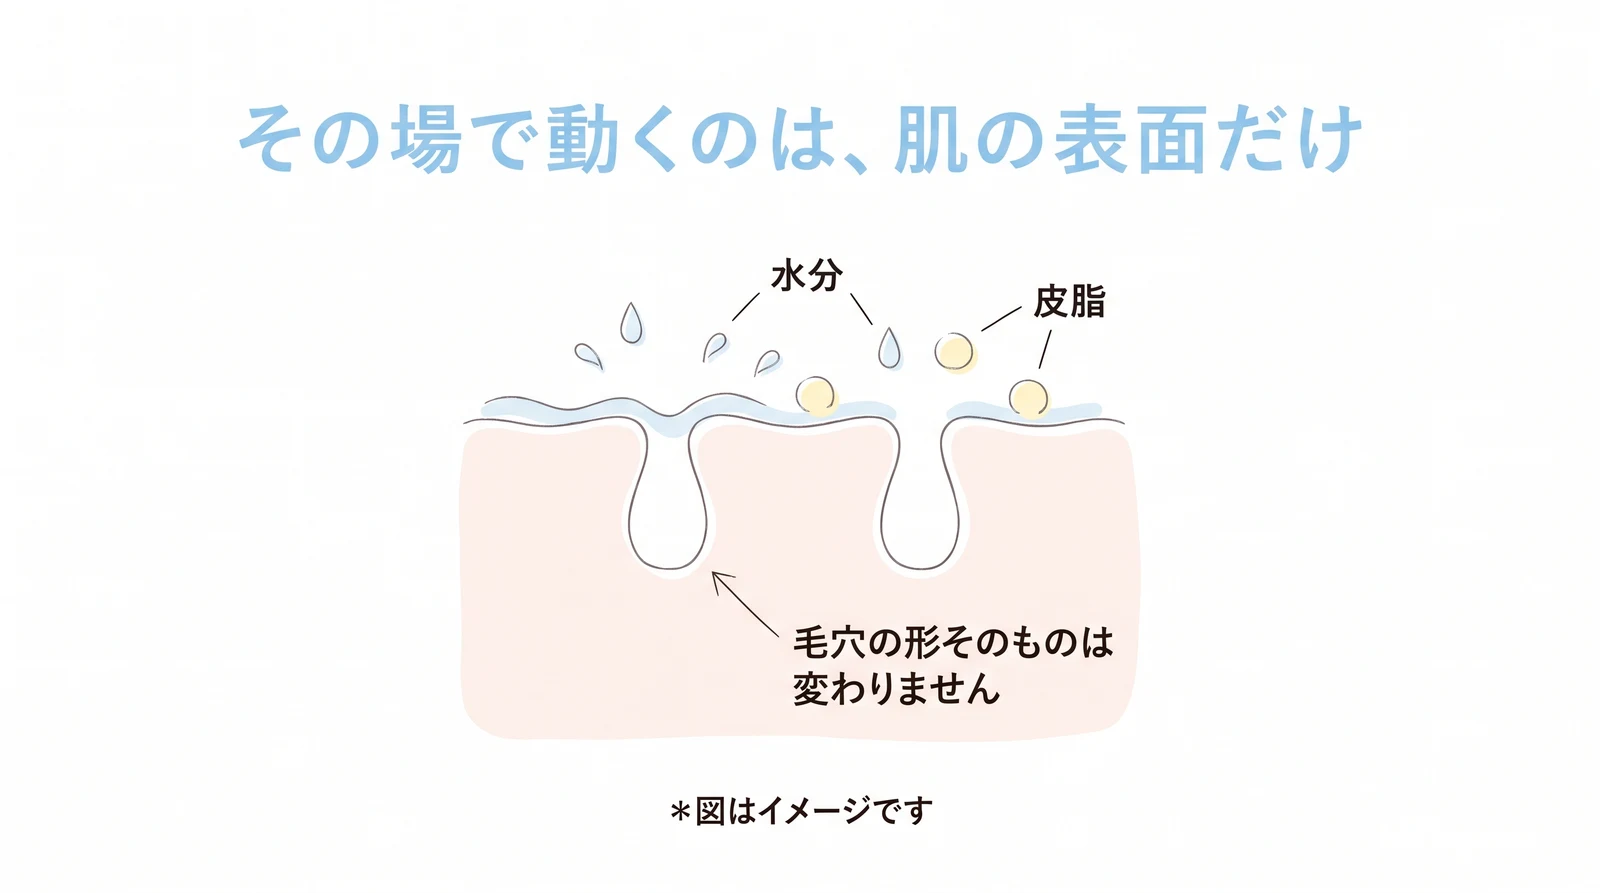
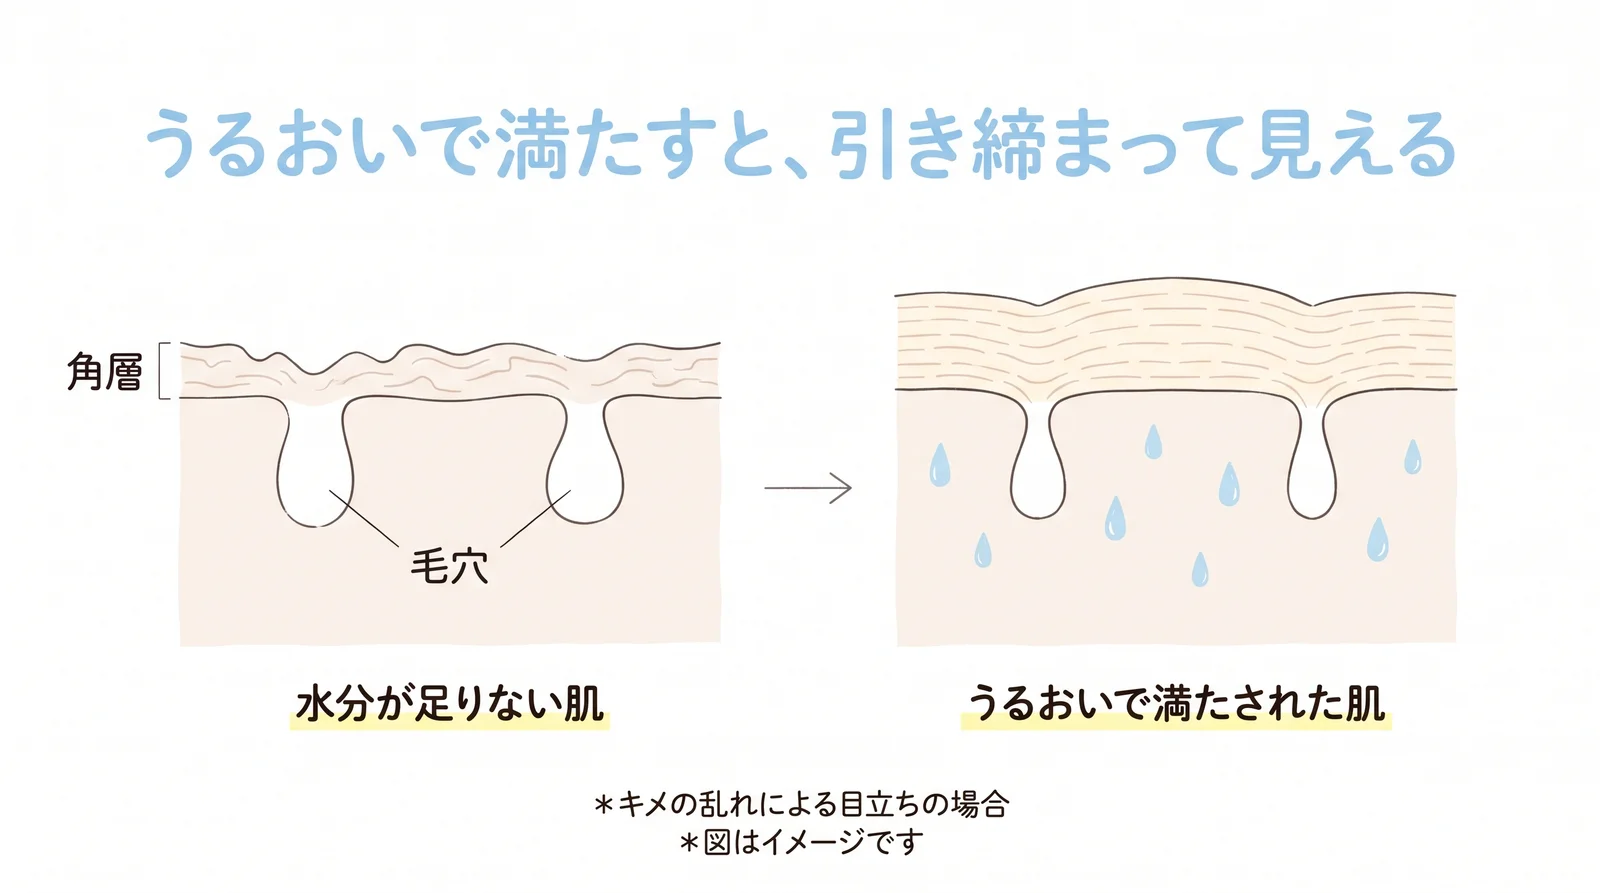
publish: orbis-u-pore-tightening-v2

diff --git a/2026/08/orbis-u-pore-tightening-v2.html b/2026/08/orbis-u-pore-tightening-v2.html
@@ -58,7 +58,7 @@
 <p style="margin:14px 0; line-height:1.7;">毛穴を引き締めたいと思って手を尽くしても、しばらくすると元に近づいて見える。そんな経験はありませんか。毛穴引き締めでできるのは、うるおいと皮脂の量を整えて毛穴を目立ちにくく見せるところまでとされています。化粧品に認められた効能の一覧にも、毛穴を対象にした項目は設けられていません。手ごたえがどれくらい続くのかを先に知っておくと、その場のケアと毎日のお手入れを取り違えずに済みますよ。</p>
 <p style="margin:14px 0; line-height:1.7;"><img src="https://shun-toda.github.io/html-publish/2026/08/orbis-u-pore-tightening-v2/kv_orbisu_%E6%AF%9B%E7%A9%B4%E7%9B%AE%E7%AB%8B%E3%81%A1%E3%82%82%E8%82%8C%E8%8D%92%E3%82%8C%E3%82%82.webp" alt="オルビスユーの洗顔料・化粧水・保湿液3品と「毛穴目立ち＊1も肌荒れ＊2も。みずみずしく跳ね返す透明感＊3」のコピーが入ったオルビス公式キービジュアル" loading="lazy" style="max-width:100%; height:auto; display:block; margin:16px auto; border-radius:6px;" /></p>
 <h2 style="font-size:24px; font-weight:600; margin:32px 0 16px; padding-bottom:8px; border-bottom:1px solid #eaeef2; line-height:1.3;">毛穴引き締めで実際にできることは何か</h2>
-<p style="margin:14px 0; line-height:1.7;"><img src="https://shun-toda.github.io/html-publish/2026/08/orbis-u-pore-tightening-v2/h2_01_%E3%81%A7%E3%81%8D%E3%82%8B%E3%81%93%E3%81%A8_%E5%8A%B9%E8%83%BD%E7%AF%84%E5%9B%B2.webp" alt="「毛穴引き締め」という言葉に対して、化粧品ができるのは肌をひきしめる・肌のキメを整える・うるおいを与えるという3つの働きであることを示したイラスト図解" loading="lazy" style="max-width:100%; height:auto; display:block; margin:16px auto; border-radius:6px;" /><br><em>化粧品の毛穴ケアの実体は「肌をひきしめる・肌のキメを整える・うるおいを与える」の3つの働き＊——毛穴そのものを治す・小さくするという効能は設けられていません（＊キメの乱れによる目立ちの場合。出典: 厚生労働省「化粧品の効能の範囲」を基に当社作成／2026年8月時点）＊図はイメージです</em></p>
+<p style="margin:14px 0; line-height:1.7;"><img src="https://shun-toda.github.io/html-publish/2026/08/orbis-u-pore-tightening-v2/h2_01_%E3%81%A7%E3%81%8D%E3%82%8B%E3%81%93%E3%81%A8_%E5%8A%B9%E8%83%BD%E7%AF%84%E5%9B%B2.webp" alt="「毛穴引き締め」という言葉に対して、化粧品ができるのは肌をひきしめる・肌のキメを整える・うるおいを与えるという3つの働きであることを示したイラスト図解" loading="lazy" style="max-width:100%; height:auto; display:block; margin:16px auto; border-radius:6px;" /><br><em>化粧品の毛穴ケアの実体は「肌をひきしめる・肌のキメを整える・うるおいを与える」の3つの働き＊——毛穴そのものを治す・小さくするという効能は設けられていません（＊キメの乱れによる目立ちの場合。出典: 厚生労働省「化粧品の効能の範囲」を基に当社作成／2026年8月時点）</em></p>
 <p style="margin:14px 0; line-height:1.7;">化粧品に認められた効能は「肌をひきしめる」までで、毛穴を対象にした効能はありません。<a href="https://www.mhlw.go.jp/web/t_doc?dataId=00tb7518&dataType=1&pageNo=" style="color:#0969da; text-decoration:none; border-bottom:1px solid #eaeef2;">厚生労働省が定める化粧品の効能の範囲</a>（平成23年7月21日通知）は56項目ありますが、そのすべてを通しても毛穴という語は出てきません（2026年8月時点）。引き締めという言葉が指しているのは、毛穴そのものではなく肌の状態だといえます。</p>
 <h3 style="font-size:20px; font-weight:600; margin:24px 0 12px; line-height:1.3;">化粧品が言える「ひきしめる」の範囲</h3>
 <p style="margin:14px 0; line-height:1.7;">56項目の効能一覧には、(23)として「肌をひきしめる。」が並んでいます。ここで対象になっているのは<strong>肌</strong>であり、毛穴という語は一覧のどこにも出てきません。あわせて (19)「肌を整える。」(20)「肌のキメを整える。」(24)「皮膚にうるおいを与える。」(30)「肌にはりを与える。」が並び、毛穴の見え方に関わる訴求は、これらの組み合わせとして表現されています。</p>
@@ -103,8 +103,8 @@
 <p style="margin:14px 0; line-height:1.7;">そのためオルビスは、自社の製品についても「毛穴を引き締める」とは書きません。毛穴について言えるのは、<span style="background:linear-gradient(transparent 60%,#FFFF00 60%)"><strong>キメの乱れによる毛穴の目立ちを、うるおいで目立ちにくく見せるところまで</strong></span>だと考えています。毛穴のタイプごとの原因整理は<a href="/magazine/pore-open/" style="color:#0969da; text-decoration:none; border-bottom:1px solid #eaeef2;">毛穴の開きの原因を3タイプに分けて整理した記事</a>にまとめていますので、あわせてご覧いただけたらうれしいです。市販品どうしの価格や成分の比較は、この記事では扱っていません。</p>
 <p style="margin:14px 0; line-height:1.7;">「引き締め」は毛穴を対象にした効能ではなく、肌をひきしめる・うるおいを与えるという効能をまとめた通称です。製品を選ぶときは、引き締めという文字そのものよりも、何に作用するものなのかに目を向けてみると選びやすくなるかもしれません。</p>
 <h2 style="font-size:24px; font-weight:600; margin:32px 0 16px; padding-bottom:8px; border-bottom:1px solid #eaeef2; line-height:1.3;">その場で変えられることと、変えられないこと</h2>
-<p style="margin:14px 0; line-height:1.7;"><img src="https://shun-toda.github.io/html-publish/2026/08/orbis-u-pore-tightening-v2/h2_02_%E3%81%9D%E3%81%AE%E5%A0%B4%E3%81%A7%E5%A4%89%E3%81%88%E3%82%89%E3%82%8C%E3%82%8B%E3%81%93%E3%81%A8.webp" alt="肌の断面イラストで、その場で動くのは表面の水分と皮脂だけであり、毛穴の形そのものは変わらないことを示した図解" loading="lazy" style="max-width:100%; height:auto; display:block; margin:16px auto; border-radius:6px;" /><br><em>その場で動かせるのは肌の表面にある水分と皮脂で、毛穴の形そのものが変わるわけではありません——取ることと補うことはセットで考えるのがおすすめです（当社の製品設計と使用方法の考え方に基づく整理／2026年8月時点）＊図はイメージです</em></p>
-<p style="margin:14px 0; line-height:1.7;">毛穴引き締めとして紹介される方法がその場で変えられるのは、肌の表面にある水分と皮脂の状態までだといわれています。皮脂が多いと毛穴のふちに影ができて目立ち、水分が足りないとキメが乱れて同じように目立って見えやすくなります。逆にいえば、<strong>その場でできることは、おおむねこの2つを整えるところに絞られる</strong>といえそうです。</p>
+<p style="margin:14px 0; line-height:1.7;"><img src="https://shun-toda.github.io/html-publish/2026/08/orbis-u-pore-tightening-v2/h2_02_%E3%81%9D%E3%81%AE%E5%A0%B4%E3%81%A7%E5%A4%89%E3%81%88%E3%82%89%E3%82%8C%E3%82%8B%E3%81%93%E3%81%A8.webp" alt="肌の断面のBefore/Afterイラストで、角層がうるおいで満たされるとキメがふっくら整い、同じ毛穴でも引き締まって見えることを示した図解" loading="lazy" style="max-width:100%; height:auto; display:block; margin:16px auto; border-radius:6px;" /><br><em>角層がうるおいで満たされるとキメがふっくら整い、同じ毛穴でも引き締まって見えます＊（＊キメの乱れによる目立ちの場合。当社の製品設計と使用方法の考え方に基づく整理／2026年8月時点）＊図はイメージです</em></p>
+<p style="margin:14px 0; line-height:1.7;">毛穴引き締めとして紹介される方法がその場で変えられるのは、肌の表面にある水分と皮脂の状態です。ただ、この2つを整えるだけでも、見え方は確かに変わります。皮脂が多いと毛穴のふちに影ができて目立ち、水分が足りないとキメが乱れて同じように目立ちやすくなる一方で、<strong>角層がうるおいで満たされるとキメがふっくら整い、同じ毛穴でも引き締まって見える</strong>＊ためです（＊キメの乱れによる目立ちの場合）。変わっているのは毛穴の形そのものではなく肌の状態ですが、見え方を整えるうえでは十分に意味のある変化だといえます。</p>
 <h3 style="font-size:20px; font-weight:600; margin:24px 0 12px; line-height:1.3;">冷やす・皮脂を取るときに起きていること</h3>
 <p style="margin:14px 0; line-height:1.7;">冷水ですすぐ、冷やしたタオルを当てるといった方法は、肌の表面の温度を一時的に下げます。表面の温度が下がるとテカリが目立ちにくくなり、肌が引き締まった印象になりやすいものです。あぶらとり紙や洗顔で皮脂を取り除く方法も、<strong>表面にある皮脂の量を減らす</strong>という点では同じ働きだといえます。</p>
 <p style="margin:14px 0; line-height:1.7;">いずれも肌の表面で起きていることであって、毛穴の形そのものが変わっているわけではありません。美容液で成分を足すかどうかの判断は<a href="/magazine/pore-open-serum/" style="color:#0969da; text-decoration:none; border-bottom:1px solid #eaeef2;">美容液の使いどころ</a>で扱っています。毛穴の構造そのものに働きかける手段としては医療の選択肢もありますが、その概観は親記事側で整理しています。</p>
@@ -115,7 +115,7 @@
 <p style="margin:14px 0; line-height:1.7;">引き締めを目的に選ばれやすいのが、収れんタイプと呼ばれる化粧水です。名前のとおり肌の感触を引き締める方向に働くもので、つけた直後の肌の表面を落ち着かせ、皮脂によるテカリを抑える役割を担います。ここでも作用しているのは肌の表面であって、毛穴の形が変わっているわけではありません。</p>
 <p style="margin:14px 0; line-height:1.7;">このタイプを使うときに気をつけたいのは、水分を補う工程を置き換えてしまうことです。さっぱりした使用感で満足してしまい、そのあとの保湿を省くと、前の項目で挙げたとおり水分が減ってキメが乱れることがあります。<strong>収れんタイプを使う場合も、うるおいを補う工程は別に確保しておくのがおすすめです。</strong>さっぱり感の強さと、肌に残る水分の量は別の話だと考えられるためです。</p>
 <h2 style="font-size:24px; font-weight:600; margin:32px 0 16px; padding-bottom:8px; border-bottom:1px solid #eaeef2; line-height:1.3;">引き締めた手ごたえはどのくらい続くのか</h2>
-<p style="margin:14px 0; line-height:1.7;"><img src="https://shun-toda.github.io/html-publish/2026/08/orbis-u-pore-tightening-v2/h2_03_%E6%89%8B%E3%81%94%E3%81%9F%E3%81%88_%E6%8C%81%E7%B6%9A.webp" alt="冷やす・皮脂を取る手当ては一度上がってから元の高さへ戻り、うるおいのお手入れはゆるやかに上がり続けることを2本の曲線で示したグラフ図解" loading="lazy" style="max-width:100%; height:auto; display:block; margin:16px auto; border-radius:6px;" /><br><em>肌の表面に作用する手当ては時間とともに元へ戻り、角層の水分に働くうるおいのお手入れはゆるやかに積み重なっていきます——続かないのは手入れ不足というより、手段の性質によるものかもしれません（出典: 厚生労働省の効能の範囲および当社公式商品ページを基に当社作成／2026年8月時点）＊図はイメージです</em></p>
+<p style="margin:14px 0; line-height:1.7;"><img src="https://shun-toda.github.io/html-publish/2026/08/orbis-u-pore-tightening-v2/h2_03_%E6%89%8B%E3%81%94%E3%81%9F%E3%81%88_%E6%8C%81%E7%B6%9A.webp" alt="冷やす・皮脂を取る手当ては一度上がってから元の高さへ戻り、うるおいのお手入れはゆるやかに上がり続けることを2本の曲線で示したグラフ図解" loading="lazy" style="max-width:100%; height:auto; display:block; margin:16px auto; border-radius:6px;" /><br><em>肌の表面に作用する手当ては時間とともに元へ戻り、角層の水分に働くうるおいのお手入れはゆるやかに積み重なっていきます——続かないのは手入れ不足というより、手段の性質によるものかもしれません（出典: 厚生労働省の効能の範囲および当社公式商品ページを基に当社作成／2026年8月時点）</em></p>
 <p style="margin:14px 0; line-height:1.7;">冷やす・皮脂を取るといった方法の手ごたえは、肌の表面の状態が戻るまでの一時的なものです。温度は時間が経てば戻りますし、皮脂は取り除いたそばから分泌が続きます。<span style="color:red"><strong>続かないのは手入れが足りないからというより、その手段がもともと一時的な性質のものだから</strong></span>かもしれません。</p>
 <div style="overflow-x:auto; margin:18px 0;"><table style="border-collapse:collapse; width:100%; font-size:14px;">
 <thead style="background:#f6f8fa;">
@@ -160,7 +160,7 @@
 <p style="margin:14px 0; line-height:1.7;">ただし、うるおいのお手入れを毎日続けた場合の変化は、ここには含まれません。角層の水分量が保たれてキメが整うと、同じ皮脂の量でも光の反射が変わり、毛穴の目立ちが抑えられて見えることがあります。何を優先して手をつけるかは毛穴のタイプによって変わりますので、<a href="/magazine/pore-open-fix/" style="color:#0969da; text-decoration:none; border-bottom:1px solid #eaeef2;">原因タイプ別のケアの選び方</a>もあわせてご覧いただけたらと思います。</p>
 <p style="margin:14px 0; line-height:1.7;">当日の運用は数時間で戻るもの、毎日の積み重ねは数週間単位で見るもの、と分けて考えておくと迷いにくくなります。この2つを混ぜて評価してしまうと、続ける価値のある手段まで手放してしまうことになりかねません。</p>
 <h2 style="font-size:24px; font-weight:600; margin:32px 0 16px; padding-bottom:8px; border-bottom:1px solid #eaeef2; line-height:1.3;">場面別に見る引き締めケアの使いどころ</h2>
-<p style="margin:14px 0; line-height:1.7;"><img src="https://shun-toda.github.io/html-publish/2026/08/orbis-u-pore-tightening-v2/h2_04_%E5%A0%B4%E9%9D%A2%E5%88%A5_%E4%BD%BF%E3%81%84%E3%81%A9%E3%81%93%E3%82%8D.webp" alt="1日の時間の流れの上に朝・日中・夜の3つの場面を並べ、一時的なお手入れを人と会う時間の近くへ寄せる考え方を示したイラスト図解" loading="lazy" style="max-width:100%; height:auto; display:block; margin:16px auto; border-radius:6px;" /><br><em>一時的な手当ては、人と会う時間の近くに寄せると無理がありません（当社の製品設計と使用方法の考え方に基づく整理／2026年8月時点）＊図はイメージです</em></p>
+<p style="margin:14px 0; line-height:1.7;"><img src="https://shun-toda.github.io/html-publish/2026/08/orbis-u-pore-tightening-v2/h2_04_%E5%A0%B4%E9%9D%A2%E5%88%A5_%E4%BD%BF%E3%81%84%E3%81%A9%E3%81%93%E3%82%8D.webp" alt="1日の時間の流れの上に朝・日中・夜の3つの場面を並べ、一時的なお手入れを人と会う時間の近くへ寄せる考え方を示したイラスト図解" loading="lazy" style="max-width:100%; height:auto; display:block; margin:16px auto; border-radius:6px;" /><br><em>一時的な手当ては、人と会う時間の近くに寄せると無理がありません（当社の製品設計と使用方法の考え方に基づく整理／2026年8月時点）</em></p>
 <p style="margin:14px 0; line-height:1.7;">一時的に整えるお手入れは、人と会う時間にできるだけ近いところへ寄せると無駄が少なくなります。手ごたえが数時間で戻る性質である以上、朝いちばんに済ませてしまうと、必要な時間帯には元に近づいていることが多いためです。<strong>人と会う時間から逆算して当てる</strong>という考え方で組み立ててみてはいかがでしょうか。</p>
 <h3 style="font-size:20px; font-weight:600; margin:24px 0 12px; line-height:1.3;">人と会う日の朝</h3>
 <p style="margin:14px 0; line-height:1.7;">出かける直前に冷やす手順を入れると、メイクをのせるときの肌の状態が整いやすくなります。順番としては、洗顔でその日の皮脂と汚れを落とし、うるおいを与え、最後に肌の表面を落ち着かせる形になります。<span style="color:red"><strong>冷やす工程を洗顔の直後に置いてしまうと、そのあとのうるおい補給までに時間が空いて、意味が薄れてしまうかもしれません。</strong></span></p>
